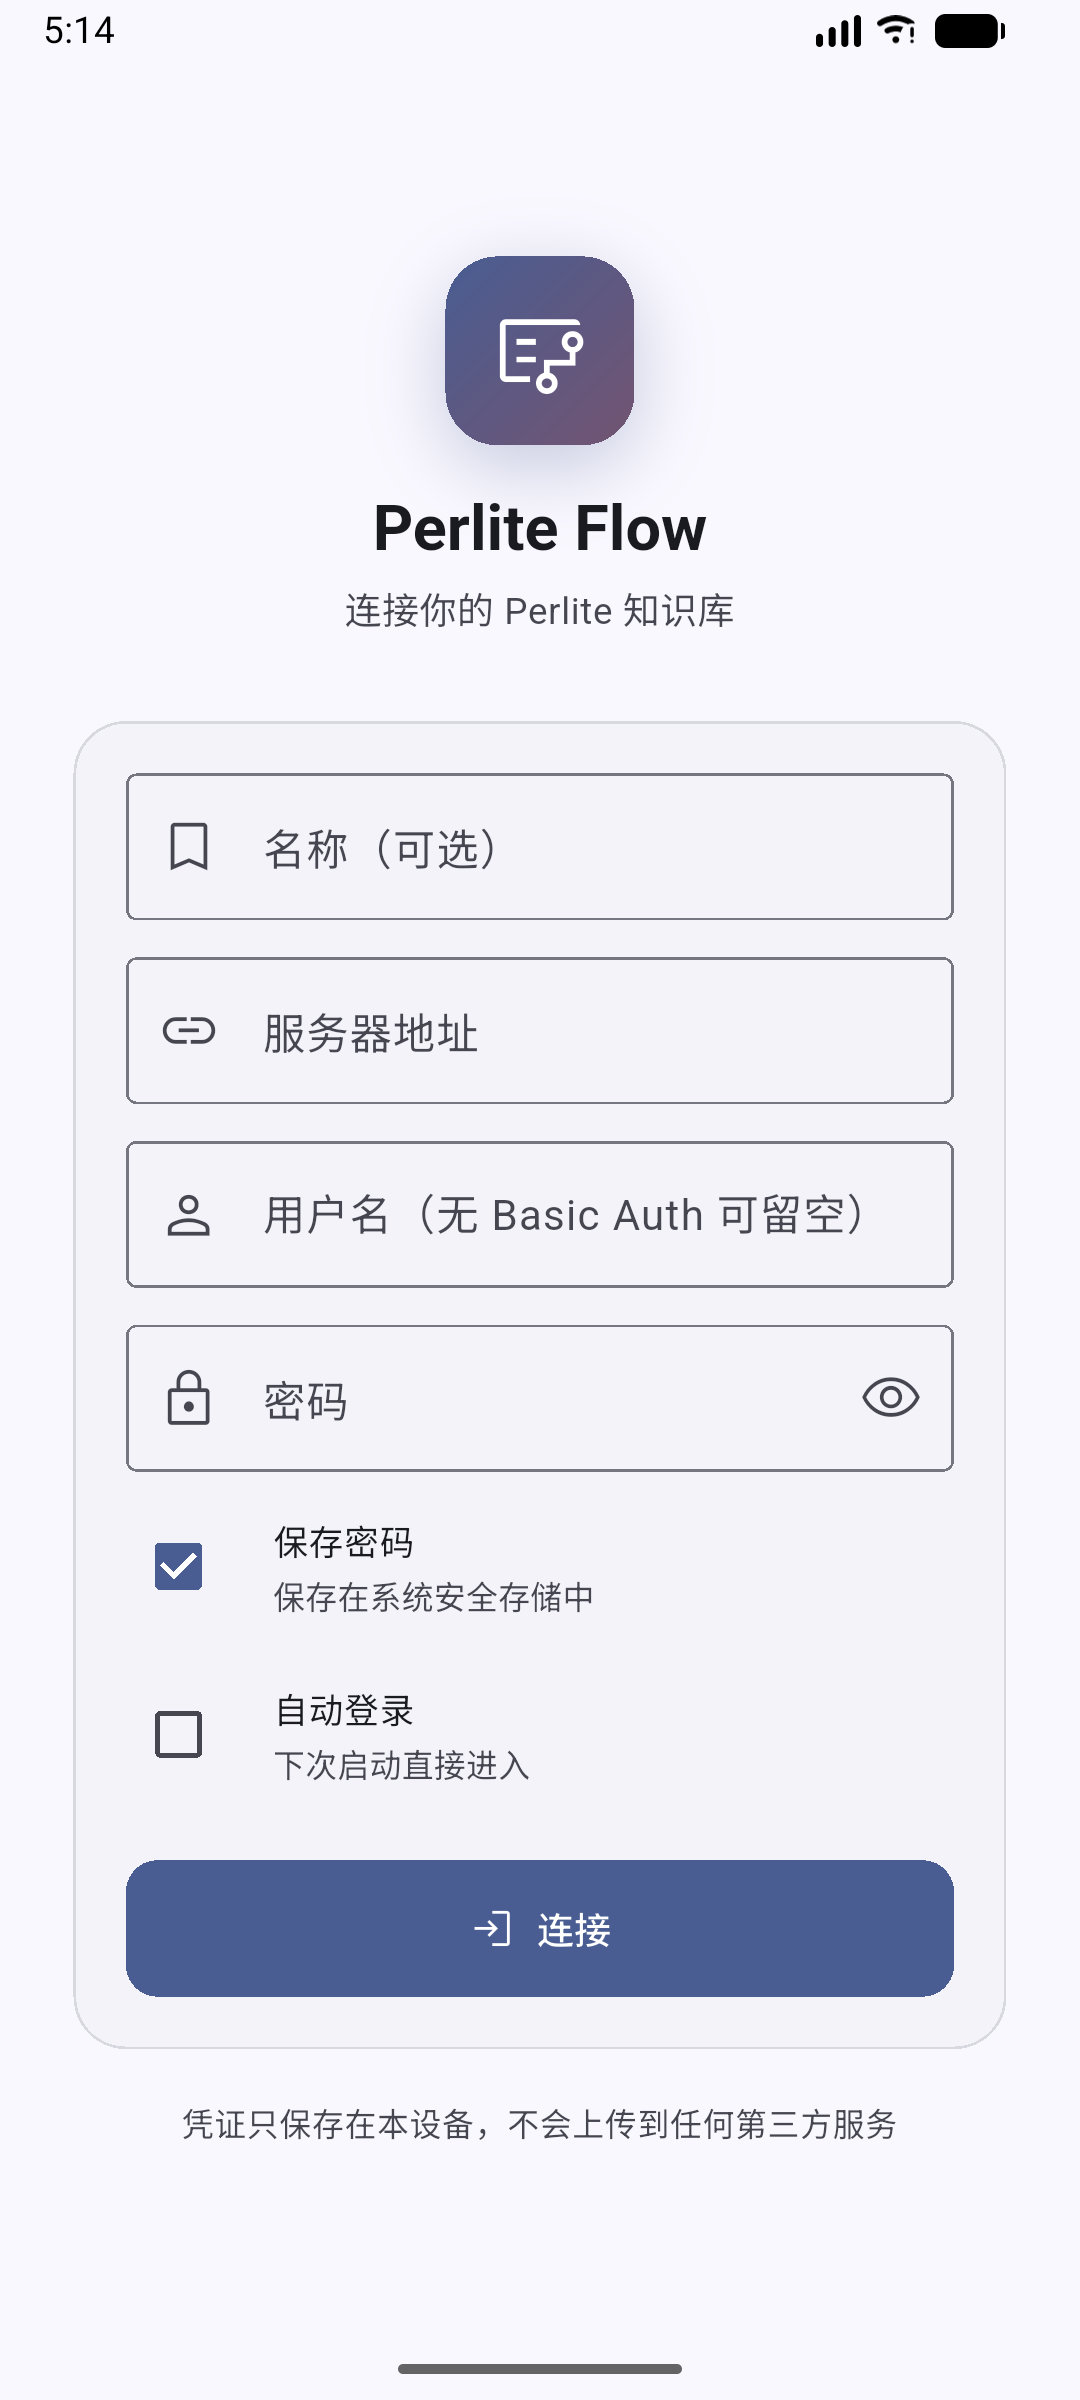
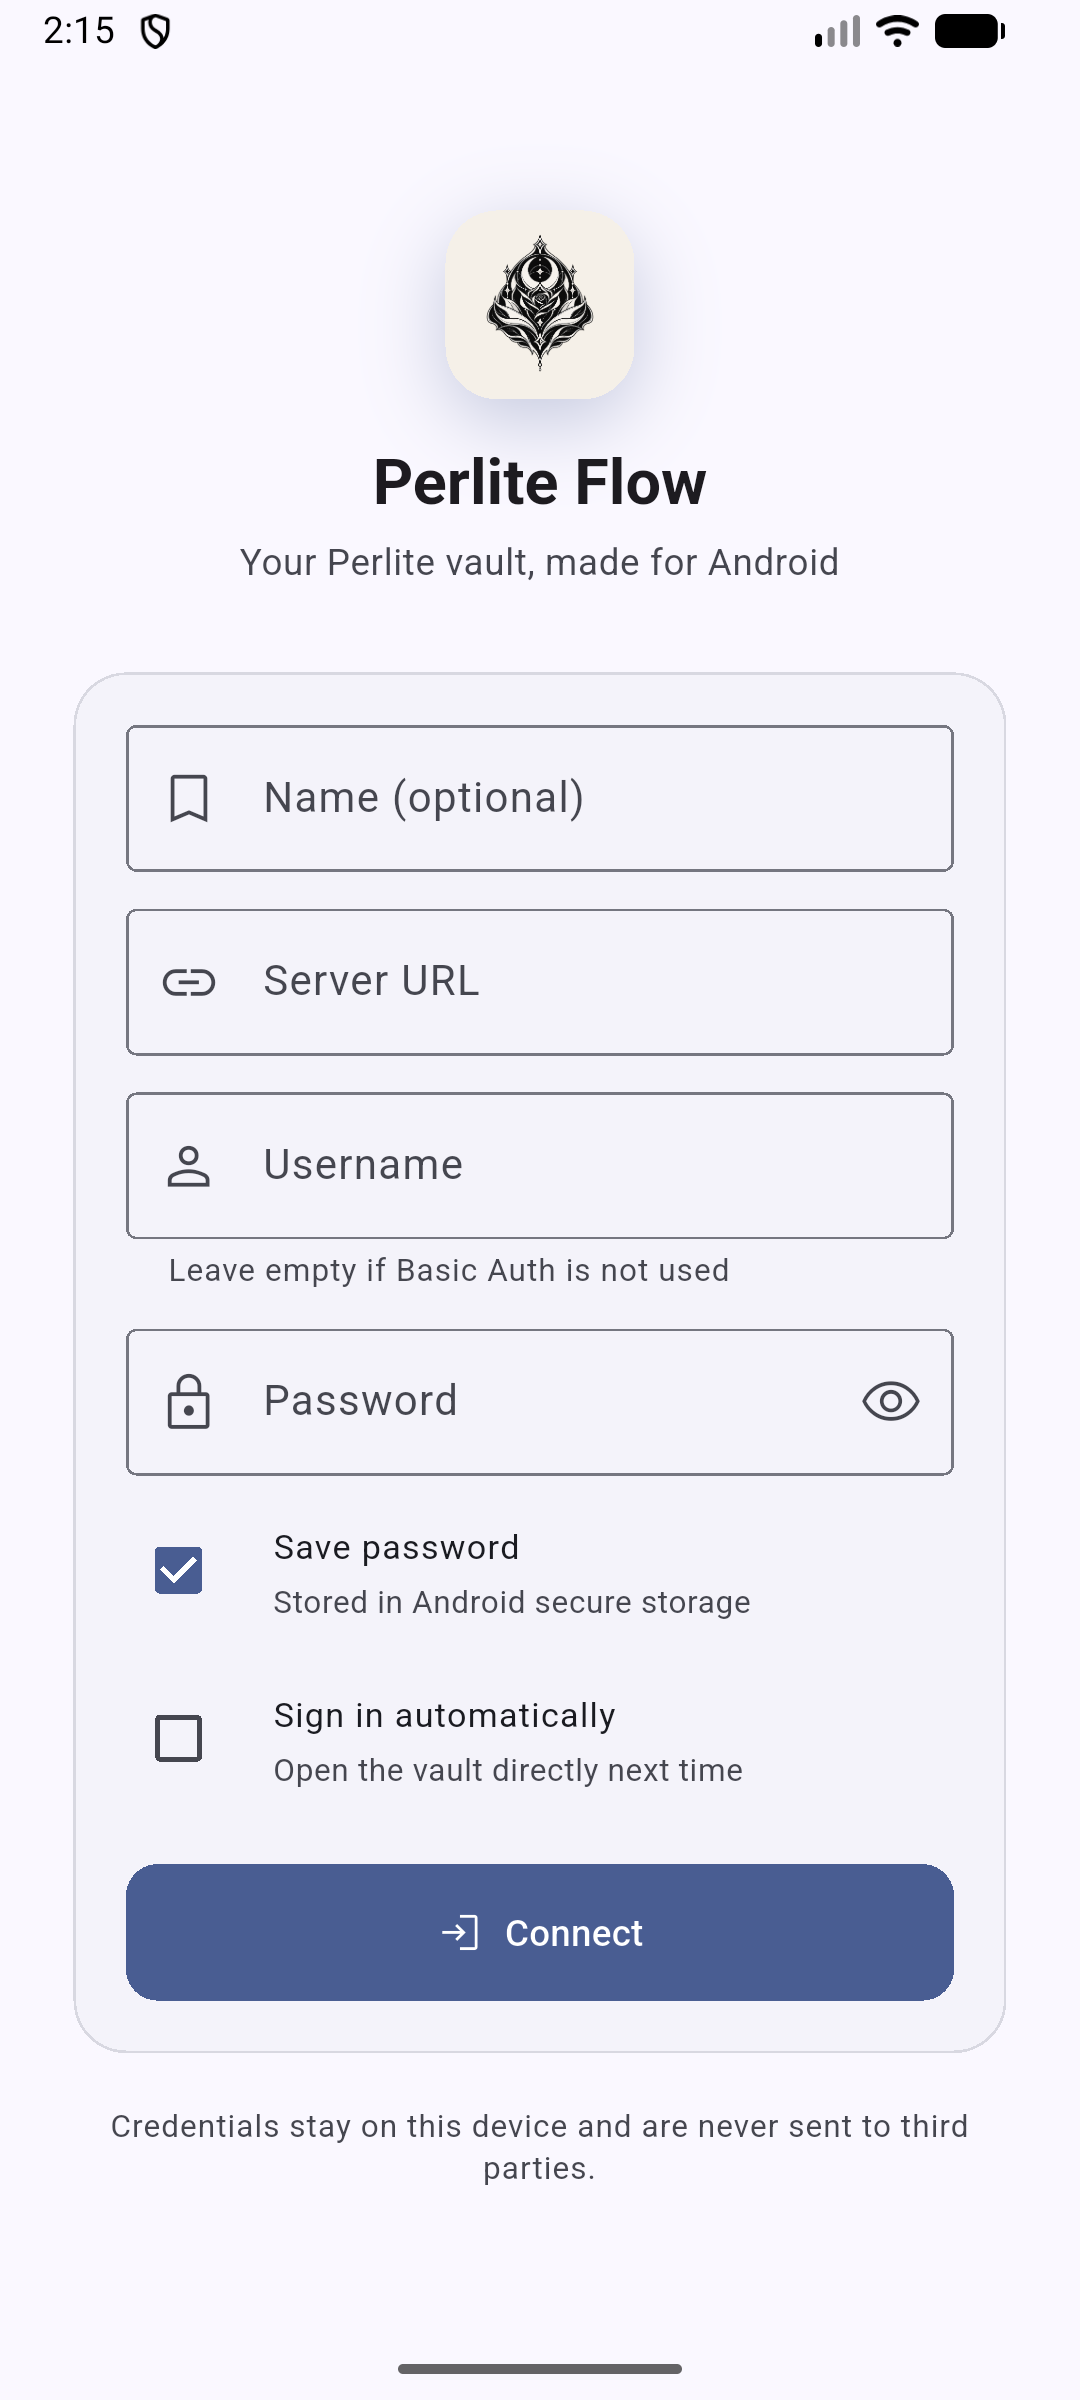
docs: rewrite README for product distribution

diff --git a/README.md b/README.md
@@ -1,109 +1,191 @@
-# Perlite Flow
+<p align="center">
+  <img src="assets/logo.png" width="96" alt="Perlite Flow logo">
+</p>
 
-A third-party Android client for [Perlite](https://github.com/secure-77/Perlite) — the self-hosted, web-based Obsidian vault viewer. Built with Flutter, Material 3, and zero server-side changes.
+<h1 align="center">Perlite Flow</h1>
 
-![Login](docs/screenshot-login.png)
+<p align="center">
+  A fast, native Android reader for your self-hosted Perlite vault.
+</p>
 
-## What it does
+<p align="center">
+  <a href="https://github.com/Rosatus/perlite-flow/releases/latest"><img alt="Latest release" src="https://img.shields.io/github/v/release/Rosatus/perlite-flow?sort=semver"></a>
+  <a href="https://github.com/Rosatus/perlite-flow/actions/workflows/android.yml"><img alt="Android build" src="https://github.com/Rosatus/perlite-flow/actions/workflows/android.yml/badge.svg"></a>
+  <a href="LICENSE"><img alt="License: AGPL-3.0" src="https://img.shields.io/github/license/Rosatus/perlite-flow"></a>
+  <img alt="Android 7.0+" src="https://img.shields.io/badge/Android-7.0%2B-3DDC84?logo=android&logoColor=white">
+</p>
 
-- **Pure client.** Speaks Perlite's existing HTTP API (`index.php` + `content.php?mdfile|search|home`). No extra backend, no plugin install.
-- **Server profile + Basic Auth.** First launch asks for the Perlite URL and Nginx basic-auth credentials. Saved in `flutter_secure_storage`, optional auto-login.
-- **File tree.** Parses the vault's navigation DOM into a native file browser. Pull-to-refresh, filename + content search.
-- **Reading view.** Reuses Perlite's rendered HTML inside `InAppWebView` so KaTeX, Mermaid, code highlighting and image attachments render exactly like the web app.
-- **Search.** Debounced input, IME composition-aware, hit-highlighted excerpts straight from the server response.
-- **Material 3 throughout.** Dynamic color (Material You) on Android 12+, manual seed palette otherwise, light/dark/auto theme, bundled reader fonts, and adjustable reader font scale.
+<p align="center">
+  <a href="https://github.com/Rosatus/perlite-flow/releases/latest"><strong>Download APK</strong></a>
+  ·
+  <a href="#features">Features</a>
+  ·
+  <a href="#build-from-source">Build</a>
+  ·
+  <a href="CONTRIBUTING.md">Contribute</a>
+</p>
 
-## Why
+<p align="center">
+  English · 简体中文 · 日本語
+</p>
 
-Perlite's web UI is great on a desktop browser, but on a phone it means tapping tiny sidebar items inside Chrome. Perlite Flow keeps the server untouched and gives you a real Android app — with a proper file tree, pull-to-refresh, safe credential storage, and reading controls that aren't squeezed into a webview toolbar.
+---
+
+Perlite Flow turns a [Perlite](https://github.com/secure-77/Perlite) site into a
+comfortable Android app. Browse your Obsidian vault with a native file tree,
+search across notes, and read rendered Markdown without changing anything on
+your server.
+
+<p align="center">
+  <img src="docs/screenshot-login.png" width="30%" alt="Connect to a Perlite server">
+  <img src="docs/screenshot-search.png" width="30%" alt="Search notes">
+  <img src="docs/screenshot-settings.png" width="30%" alt="Personalize the app">
+</p>
+
+## Features
+
+- **No server changes.** Connects to the HTML endpoints Perlite already exposes.
+- **Native vault browsing.** Folders, notes, canvas files, and attachments in a mobile-first tree.
+- **Fast search.** Debounced, IME-aware search with highlighted excerpts.
+- **Faithful reading.** Perlite-rendered HTML with images, links, code blocks, KaTeX, and Mermaid support.
+- **Offline-friendly cache.** Recently opened notes appear instantly and refresh in the background.
+- **Private by design.** Passwords stay in Android secure storage; there are no analytics or third-party services.
+- **Multiple servers.** Save several Perlite instances, with optional HTTP Basic Auth and auto sign-in.
+- **Made for your phone.** Material 3, Material You colors, dark mode, adjustable reader size, and customizable tabs.
+- **Bundled fonts.** Choose LXGW WenKai or JetBrains Mono without downloading fonts at runtime.
+- **Three languages.** English, Simplified Chinese, and Japanese, with in-app or system language selection.
+
+## Install
+
+1. Open the [latest release](https://github.com/Rosatus/perlite-flow/releases/latest).
+2. Download the APK for your device:
+
+| Your device | APK |
+| --- | --- |
+| Most phones from the last several years | `arm64-v8a` |
+| Older 32-bit ARM phones | `armeabi-v7a` |
+| x86_64 emulators and Chromebooks | `x86_64` |
+
+3. Open the APK and allow installation from your browser or file manager if Android asks.
+
+Each release includes `SHA256SUMS.txt`. Release APKs are signed with this
+certificate:
+
+```text
+SHA-256: 2F:9C:FF:5A:2C:9D:D4:D9:7D:D2:CB:58:95:10:50:1A:37:CE:0B:E0:79:06:18:99:B6:28:F9:59:3C:8D:85:90
+```
+
+You can update in place as long as the certificate matches. To get updates
+automatically from GitHub Releases, add this repository to
+[Obtainium](https://github.com/ImranR98/Obtainium).
+
+## Getting started
+
+1. Enter your Perlite URL, such as `https://notes.example.com`.
+2. If your server uses HTTP Basic Auth, enter the username and password.
+3. Choose whether to save the password and sign in automatically next time.
+4. Tap **Connect**.
+
+Perlite Flow checks the URL as you type and explains common DNS, TLS, network,
+and authentication errors.
 
 ## Requirements
 
-- Android 7.0+ (`minSdk 24`)
-- A running Perlite instance. If you're using Nginx basic-auth in front of it, Perlite Flow supports that natively.
+- Android 7.0 or later
+- A reachable Perlite instance
+- Optional: HTTP Basic Auth in front of Perlite
 
-## Build
+Plain HTTP is allowed for local and LAN servers. Use HTTPS for servers reachable
+from the internet.
+
+## Privacy
+
+Perlite Flow talks only to the servers you configure. Server profiles and app
+preferences are stored locally. Saved passwords use Android secure storage.
+Cached notes stay in the app's private storage and can be cleared from Settings.
+
+## Build from source
+
+Requirements: Flutter stable, Android SDK, and JDK 21.
 
 ```sh
+git clone https://github.com/Rosatus/perlite-flow.git
+cd perlite-flow
 flutter pub get
-flutter run            # debug
-flutter build apk      # release
+flutter run
 ```
 
-### Release APKs
-
-`build-apk.ps1` builds one APK per CPU architecture and writes them to `dist/`:
-
-```text
-perlite-flow-v1.3.2-b1520000-arm64-v8a.apk
-perlite-flow-v1.3.2-b1520000-armeabi-v7a.apk
-perlite-flow-v1.3.2-b1520000-x86_64.apk
-```
-
-Most modern phones use `arm64-v8a`. `SHA256SUMS.txt` contains checksums.
-
-### Release signing
-
-`build-apk.ps1` expects `android/key.properties` plus `android/app/release.keystore`. Both are `.gitignore`d — generate your own:
+Run the checks used by CI:
 
 ```sh
-keytool -genkey -v -keystore android\app\release.keystore `
-        -keyalg RSA -keysize 2048 -validity 10000 -alias perlite_flow
+flutter analyze
+flutter test
 ```
 
-```properties
-# android/key.properties
-storePassword=...
-keyPassword=...
-keyAlias=perlite_flow
-storeFile=release.keystore
+On Windows, build the release APKs with:
+
+```powershell
+.\build-apk.ps1
 ```
 
-### GitHub Actions
+The script builds one APK per ABI and writes files such as
+`perlite-flow-v1.3.2-b1473223-arm64-v8a.apk` and `SHA256SUMS.txt` to `dist/`.
+Local release builds read the gitignored `android/key.properties` and
+`android/app/release.keystore`.
 
-`.github/workflows/android.yml` analyzes, tests, and builds split APKs on pushes, pull requests, and manual runs. Download them from the workflow run's artifacts. When `main` contains a new `pubspec.yaml` version, CI creates the matching `v<version>` GitHub Release and attaches signed APKs. Later pushes with the same version only upload workflow artifacts; bump the version to publish again.
+## Releases
 
-For releases signed with the same key as local builds, add these repository secrets:
+GitHub Actions analyzes, tests, and builds every push and pull request. When
+`main` contains a new `version` in `pubspec.yaml`, CI creates the matching
+`v<version>` release and attaches signed APKs. Pushes with an existing version
+only upload workflow artifacts.
+
+To publish a release:
+
+1. Bump `version` in `pubspec.yaml`, for example `1.3.3+10`.
+2. Merge or push the change to `main`.
+3. Wait for the **Android APK** workflow to publish `v1.3.3`.
+
+Release signing uses these repository secrets:
 
 - `ANDROID_KEYSTORE_BASE64`
 - `ANDROID_KEYSTORE_PASSWORD`
 - `ANDROID_KEY_ALIAS`
 - `ANDROID_KEY_PASSWORD`
 
-Without signing secrets, branch builds use debug signing and release publishing fails.
+## Translations
 
-## Test
+Translations live in `lib/l10n/`:
 
-```sh
-flutter test                                        # unit + parsing tests
-flutter test integration_test\real_server_test.dart --dart-define=PERLITE_USER=... --dart-define=PERLITE_PASSWORD=...
-```
+- `app_en.arb` - English source strings
+- `app_zh.arb` - Simplified Chinese
+- `app_ja.arb` - Japanese
 
-The `test/real_*.html` fixtures are snapshots of a real vault's index/search page — they're `.gitignore`d because they contain user note titles. To regenerate:
+Add new strings to `app_en.arb` first, translate them in the other files, then
+run `flutter gen-l10n` or `flutter pub get`.
 
-```sh
-curl -u user:pass https://your-perlite.example/ > test\real_index.html
-curl -u user:pass "https://your-perlite.example/content.php?search=foo" > test\real_search.html
-```
+## Project structure
 
-## Project layout
-
-```
+```text
 lib/
-  models/      server_profile, file_node, search_result
-  services/    perlite_client (Dio + html parser), credential_store,
-               note_cache, dynamic_color_service
-  state/       app_state, theme_state
-  pages/       login, home, reader, settings
-  widgets/     file_tree, note_webview, search_excerpt_text
-integration_test/  raw_socket_test, real_server_test
-test/              unit tests + offline-vault parsing tests
+  l10n/       localization resources and helpers
+  models/     server profiles, file tree, search results
+  pages/      login, home, reader, settings
+  services/   Perlite HTTP client, credential storage, cache
+  state/      app, theme, and UI preferences
+  widgets/    file tree, note WebView, search excerpts
+test/         unit, widget, parser, and localization tests
+tool/         release packaging helpers
 ```
-
-## License
-
-AGPL-3.0. See `LICENSE`. Perlite itself is AGPL-3.0 — the same license keeps this client compatible and keeps improvements upstream.
 
 ## Contributing
 
-See `CONTRIBUTING.md`.
+Bug reports, translations, and pull requests are welcome. Please read
+[CONTRIBUTING.md](CONTRIBUTING.md) before opening a PR.
+
+## License
+
+Perlite Flow is licensed under [AGPL-3.0](LICENSE), the same license as Perlite.
+Bundled fonts keep their own licenses: LXGW WenKai and JetBrains Mono are both
+distributed under the SIL Open Font License 1.1. See
+`assets/fonts/LXGWWenKai-OFL.txt` for the WenKai license text.

diff --git a/CONTRIBUTING.md b/CONTRIBUTING.md
@@ -41,15 +41,19 @@ flutter run -d emulator-5554     # debug build
 2. Plumb it through `app_state.dart`. Keep widget code dumb — state belongs
    in `AppState` / `ThemeState`, not inside widgets.
 3. For UI work, run both light and dark mode at least once.
+4. Put user-facing text in `lib/l10n/app_en.arb`, then add Chinese and
+   Japanese translations in `app_zh.arb` and `app_ja.arb`.
 
 ## Testing against a real server
 
-`integration_test/real_server_test.dart` exercises the full Dio → parse →
-model pipeline against a live vault. It currently hardcodes
-`https://ob.rosata.cn` — substitute your own before running:
+`integration_test/real_server_test.dart` exercises the full Dio -> parse ->
+model pipeline against a live vault. Pass the server through dart defines:
 
 ```sh
-flutter test integration_test\real_server_test.dart -d <device>
+flutter test integration_test\real_server_test.dart -d <device> `
+  --dart-define=PERLITE_URL=https://notes.example.com `
+  --dart-define=PERLITE_USER=... `
+  --dart-define=PERLITE_PASSWORD=...
 ```
 
 If the emulator can't resolve DNS, restart it with `-dns-server 223.5.5.5,8.8.8.8`
